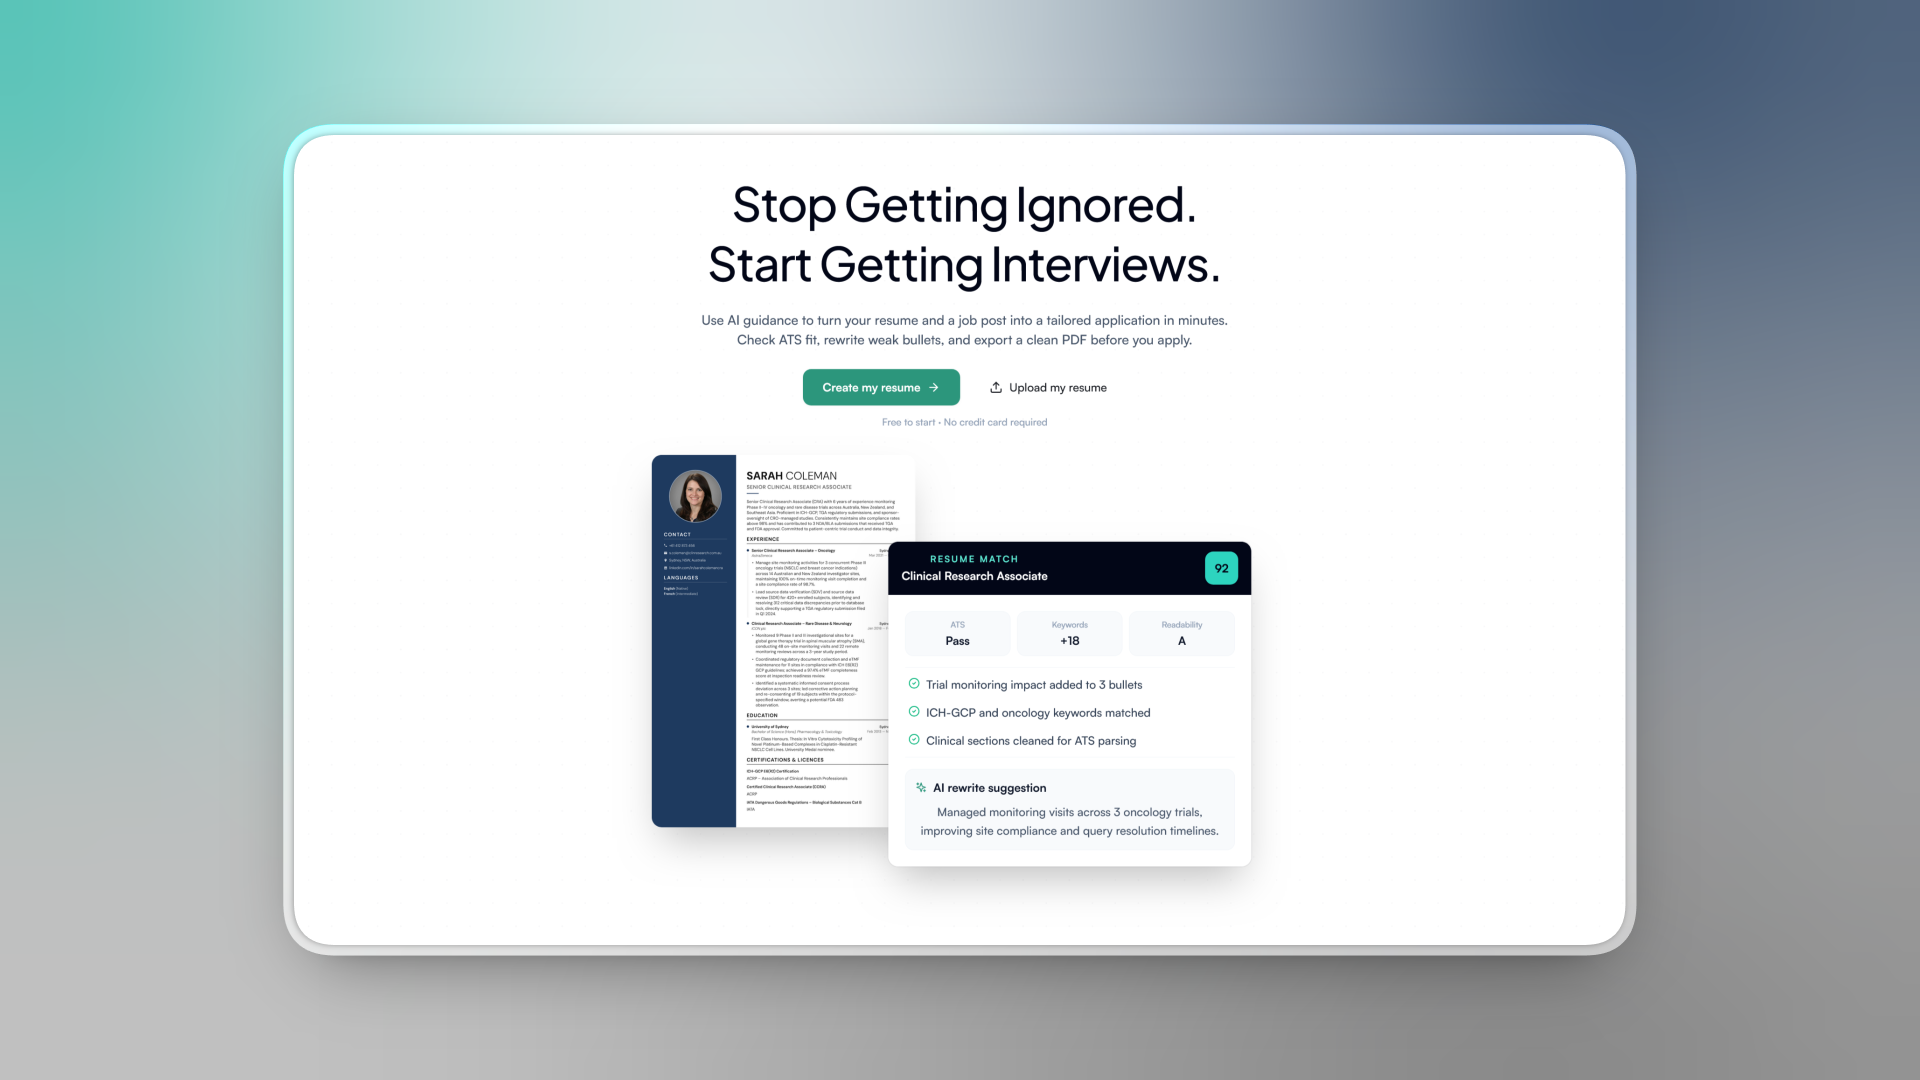
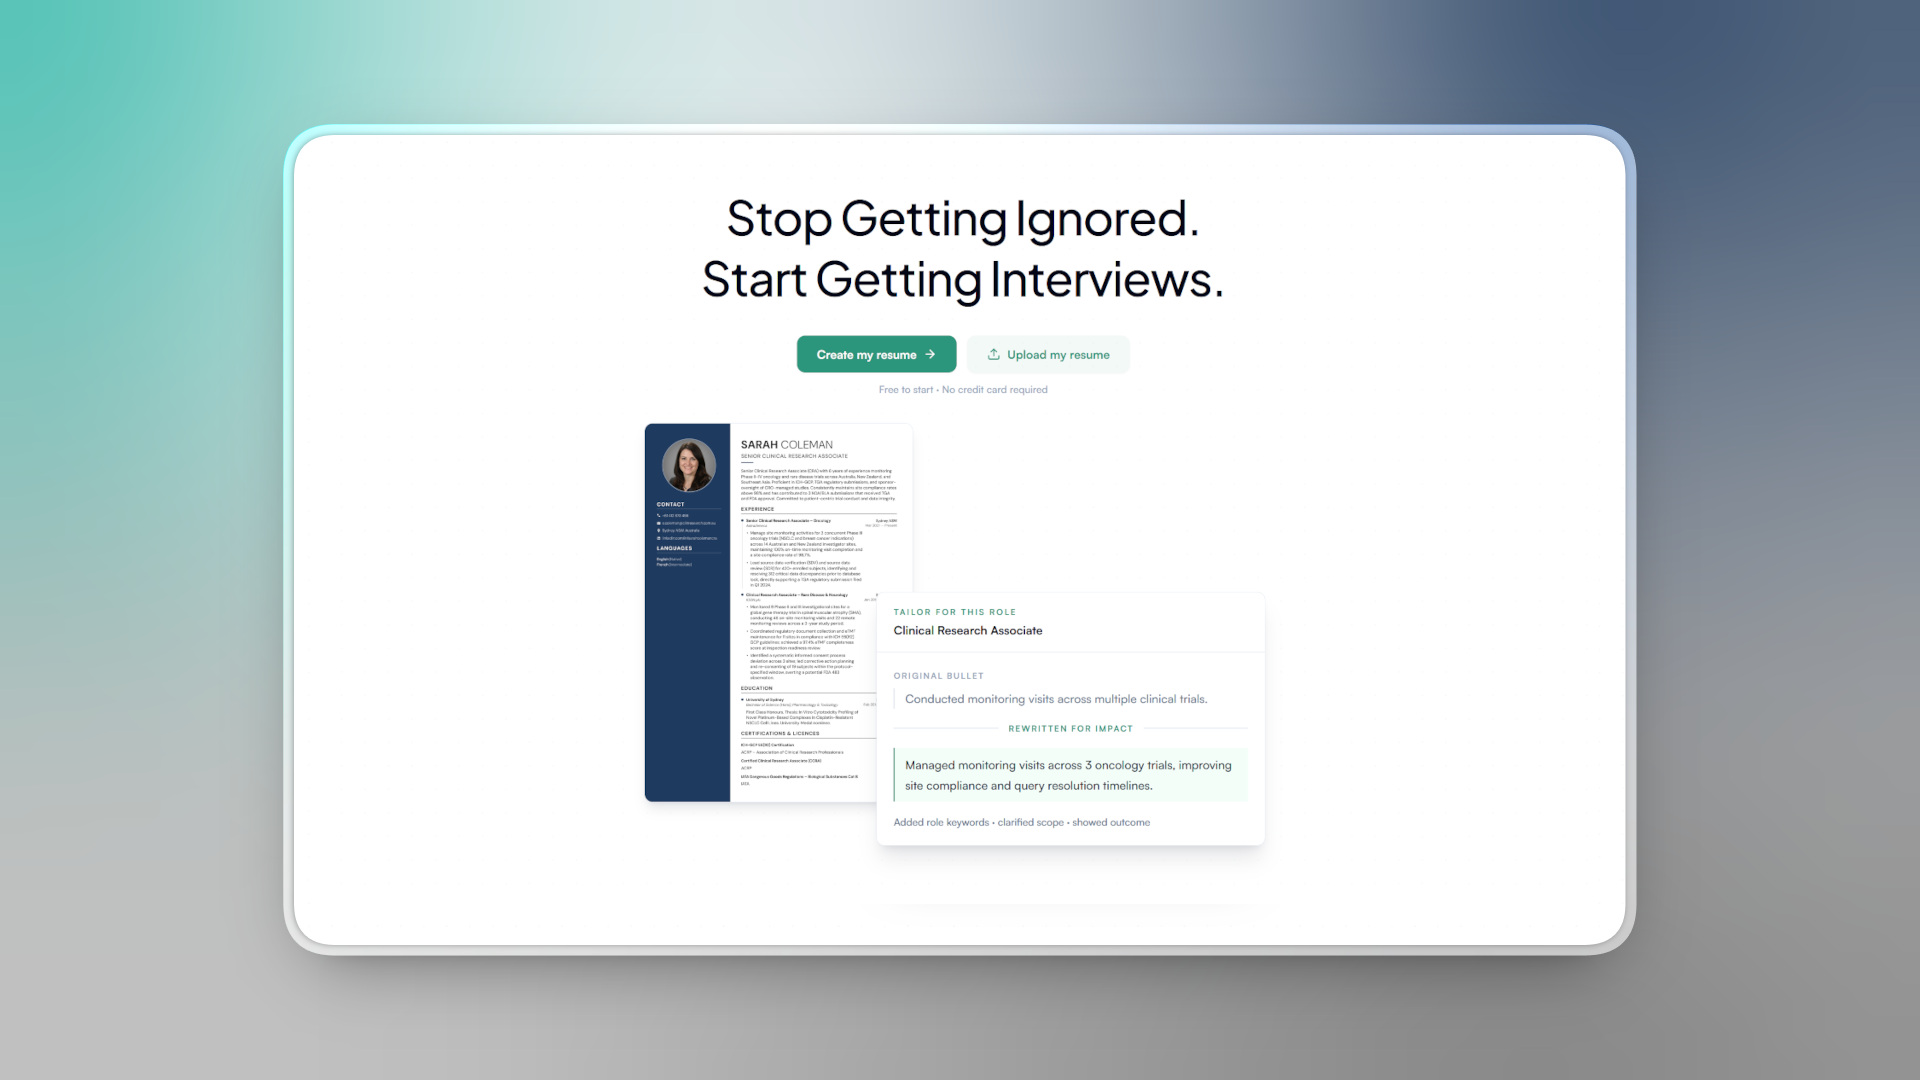
changed ascii texture to subtle orbital motif

Changed region(s): [[0.3125, 0.1528, 0.6562, 0.825]]

diff --git a/src/App.jsx b/src/App.jsx
@@ -94,26 +94,22 @@ const socials = [
   },
 ];
 
-function AsciiBackdrop() {
-  const rows = [
-    "::::::+===---::::::::::::::......::::::---===++++:::::::.......:::::::---====+++:::::::......::::::---===++++:::::::",
-    "----:::::::::::::::----::::......::::::++++++:::::::::::.......:::::::+++++++::::---::::......::::::++++++::::::::::",
-    "::::::......+++++++::::::::::::::......::::::::::::::++++++::::......::::::::::::::++++++::::......::::::::::::::+++",
-    "==---:::::::......::::::::---====++++:::::::......::::::::::::::---===++++:::::::......::::::::---====++++:::::::...",
-    "::::::+++++++:::::::......::::::::::::::++++++::::......::::::::::::::++++++::::......::::::::::::::++++++::::.....",
-    "::::::---===++++:::::::......::::::::---====+++:::::::......::::::::---====+++:::::::......::::::::---====+++::::::",
-    "::::::::::::......::::::+++++++::::::::::::......::::::+++++++::::::::::::......::::::+++++++::::::::::::......::::",
-    "----:::::::++++++:::::::......::::::::::::::++++++::::......::::::::::::::++++++::::......::::::::::::::++++++::::",
-  ];
-  const tile = rows
-    .map((row) => `${row}....${row}....${row}....${row}....${row}`)
-    .join("\n");
-  const repeated = `${tile}\n${tile}\n${tile}\n${tile}\n${tile}`;
-
+function IntroPattern() {
   return (
-    <pre className="ascii-backdrop" aria-hidden="true">
-      {repeated}
-    </pre>
+    <svg
+      className="intro-pattern"
+      viewBox="0 0 420 220"
+      fill="none"
+      aria-hidden="true"
+    >
+      <path d="M18 178C82 54 202 18 398 46" />
+      <path d="M50 202C104 92 220 48 402 72" />
+      <path d="M114 214C154 126 250 80 408 98" />
+      <path className="intro-pattern-dash" d="M206 18V176M132 104H376" />
+      <circle cx="206" cy="104" r="4" />
+      <circle cx="311" cy="61" r="2.5" />
+      <circle cx="362" cy="91" r="2.5" />
+    </svg>
   );
 }
 
@@ -229,7 +225,7 @@ function App() {
         animate="visible"
       >
         <Motion.section className="intro" variants={itemVariants}>
-          <AsciiBackdrop />
+          <IntroPattern />
 
           <div className="profile-lockup">
             <div>

diff --git a/src/index.css b/src/index.css
@@ -172,44 +172,34 @@ img {
   isolation: isolate;
 }
 
-.ascii-backdrop {
+.intro-pattern {
   position: absolute;
-  top: -112px;
-  left: calc(50% - 50vw);
+  top: -18px;
+  right: -126px;
   z-index: 0;
-  width: 100vw;
-  min-width: 100vw;
-  max-width: none;
-  margin: 0;
+  width: 420px;
   color: var(--text);
-  font-family: ui-monospace, SFMono-Regular, Menlo, Monaco, Consolas, monospace;
-  font-size: 9px;
-  line-height: 0.92;
-  letter-spacing: 0.055em;
-  opacity: 0.2;
-  white-space: pre;
-  transform: none;
+  opacity: 0.14;
   user-select: none;
   pointer-events: none;
-  overflow: hidden;
-  mask-image: linear-gradient(
-    to bottom,
-    #000 0%,
-    #000 18%,
-    rgb(0 0 0 / 0.45) 48%,
-    transparent 82%
-  );
-  -webkit-mask-image: linear-gradient(
-    to bottom,
-    #000 0%,
-    #000 18%,
-    rgb(0 0 0 / 0.45) 48%,
-    transparent 82%
-  );
+  mask-image: linear-gradient(to bottom left, #000 42%, transparent 92%);
+  -webkit-mask-image: linear-gradient(to bottom left, #000 42%, transparent 92%);
 }
 
-.light-theme .ascii-backdrop {
-  opacity: 0.1;
+.intro-pattern path,
+.intro-pattern circle {
+  stroke: currentColor;
+  stroke-width: 1;
+  vector-effect: non-scaling-stroke;
+}
+
+.intro-pattern-dash {
+  opacity: 0.55;
+  stroke-dasharray: 2 7;
+}
+
+.light-theme .intro-pattern {
+  opacity: 0.11;
 }
 
 .profile-lockup {
@@ -782,10 +772,6 @@ img {
     padding: 16px 16px 88px;
   }
 
-  .ascii-backdrop {
-    display: none;
-  }
-
   .page {
     padding-top: 12px;
   }
@@ -795,27 +781,11 @@ img {
     padding-top: 44px;
   }
 
-  .ascii-backdrop {
-    top: -72px;
-    left: calc(50% - 50vw);
-    width: 100vw;
-    min-width: 100vw;
-    font-size: 7px;
-    opacity: 0.12;
-    mask-image: linear-gradient(
-      to bottom,
-      #000 0%,
-      #000 14%,
-      rgb(0 0 0 / 0.38) 38%,
-      transparent 68%
-    );
-    -webkit-mask-image: linear-gradient(
-      to bottom,
-      #000 0%,
-      #000 14%,
-      rgb(0 0 0 / 0.38) 38%,
-      transparent 68%
-    );
+  .intro-pattern {
+    top: 0;
+    right: -72px;
+    width: 260px;
+    opacity: 0.1;
   }
 
   .intro-copy p {
